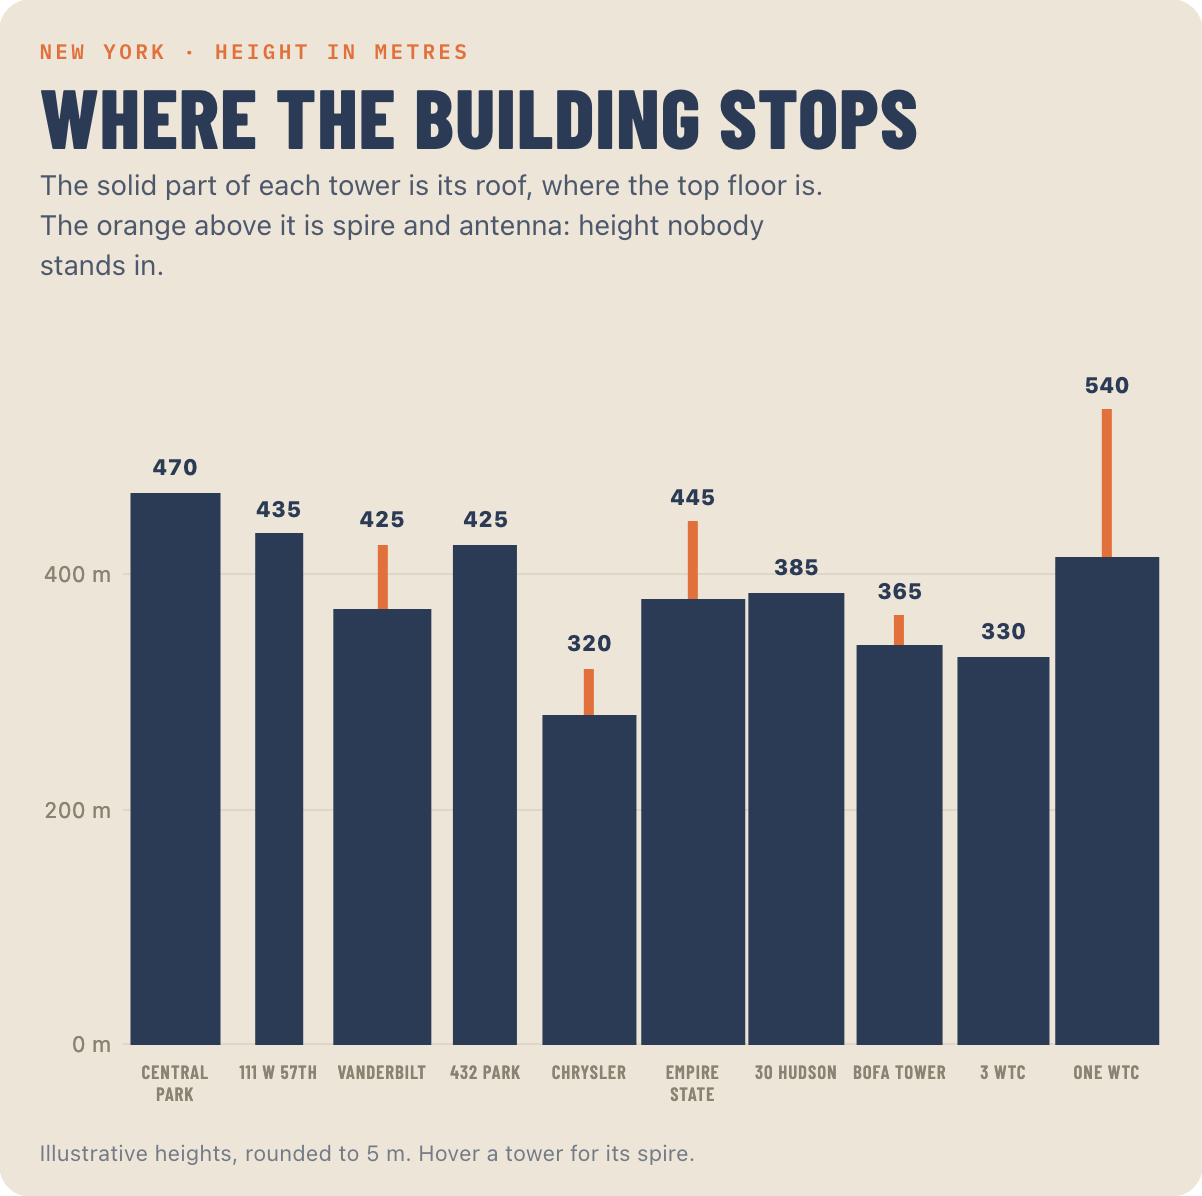
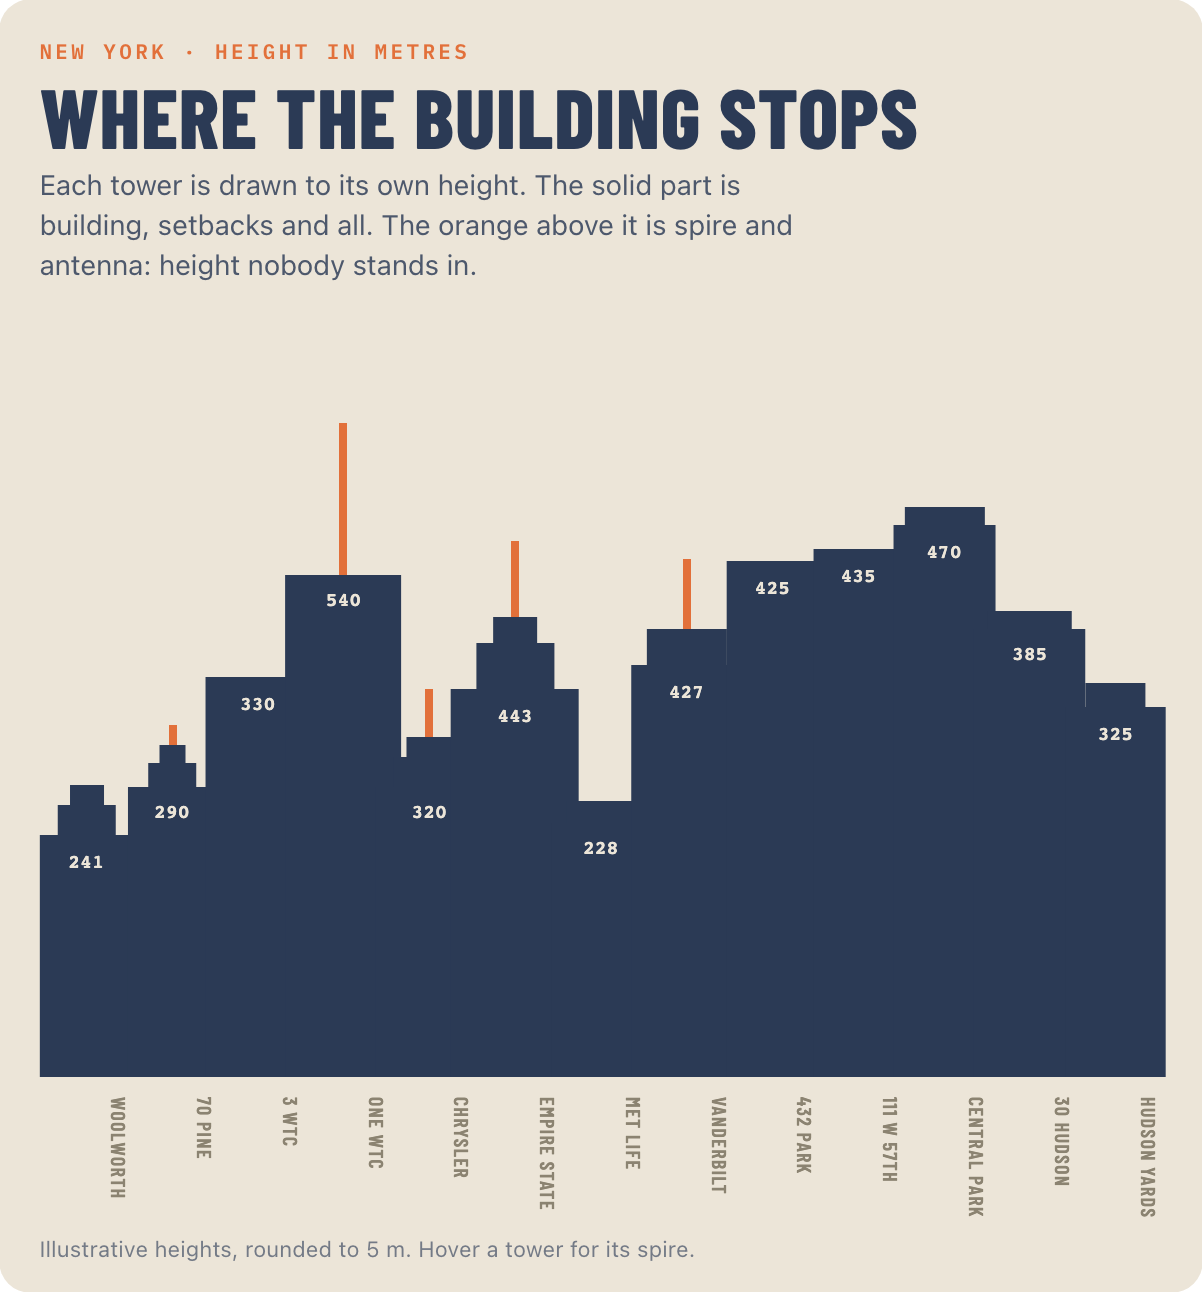
Draw the skyline as one silhouette: towers that overlap, with their setbacks stacked on top

Changed region(s): [[0.0308, 0.3094, 0.985, 0.959], [0.0308, 0.0309, 0.7696, 0.2475], [0.0616, 0.959, 0.5849, 0.99]]

diff --git a/src/gallery/examples/skyline/poster/chart.jsx b/src/gallery/examples/skyline/poster/chart.jsx
@@ -1,53 +1,75 @@
-import { createMemo } from "solid-js";
+import { createMemo, For, Show } from "solid-js";
 import { Plot, Chart, Bar, Label, Place, slat } from "@bezda/rhp";
 import { Poster } from "@gallery/ui/Poster.jsx";
 import { rand } from "@gallery/random.js";
 import * as styles from "./styles.js";
 
-// Ten New York towers, north to south along the island, so the skyline reads as a skyline.
-// roof is the height of the top floor; tip adds the spire or antenna above it. Heights are rounded to 5 m.
+// Thirteen Manhattan towers, south to north.
+//   mass   the main block, in metres
+//   steps  the setbacks above it, each [share of the tower's width, metres]: the crown, drawn as narrower blocks
+//   tip    the top of the spire or antenna, if it has one
+//   wide   the footprint, as a share of its slat's band. Over 1 it spills into its neighbours, which is what keeps
+//          the skyline one unbroken mass rather than a row of bars.
 const TOWERS = [
-  { name: "Central Park", roof: 470, tip: 470, wide: 0.86 },
-  { name: "111 W 57th", roof: 435, tip: 435, wide: 0.46 },
-  { name: "Vanderbilt", roof: 370, tip: 425, wide: 0.96 },
-  { name: "432 Park", roof: 425, tip: 425, wide: 0.62 },
-  { name: "Chrysler", roof: 280, tip: 320, wide: 0.9 },
-  { name: "Empire State", roof: 380, tip: 445, wide: 1 },
-  { name: "30 Hudson", roof: 385, tip: 385, wide: 0.94 },
-  { name: "BofA Tower", roof: 340, tip: 365, wide: 0.82 },
-  { name: "3 WTC", roof: 330, tip: 330, wide: 0.88 },
-  { name: "One WTC", roof: 415, tip: 540, wide: 1 },
+  { name: "Woolworth", mass: 200, steps: [[0.62, 25], [0.36, 16]], tip: 241, wide: 1.1 },
+  { name: "70 Pine", mass: 240, steps: [[0.55, 20], [0.3, 14]], tip: 290, wide: 1.05 },
+  { name: "3 WTC", mass: 330, steps: [], tip: 330, wide: 1.2 },
+  { name: "One WTC", mass: 415, steps: [], tip: 540, wide: 1.35 },
+  { name: "Chrysler", mass: 240, steps: [[0.66, 24], [0.42, 16]], tip: 320, wide: 1.25 },
+  { name: "Empire State", mass: 320, steps: [[0.6, 38], [0.34, 22]], tip: 443, wide: 1.5 },
+  { name: "Met Life", mass: 210, steps: [[0.7, 18]], tip: 228, wide: 1.15 },
+  { name: "Vanderbilt", mass: 340, steps: [[0.72, 30]], tip: 427, wide: 1.3 },
+  { name: "432 Park", mass: 425, steps: [], tip: 425, wide: 1.08 },
+  { name: "111 W 57th", mass: 435, steps: [], tip: 435, wide: 1.06 },
+  { name: "Central Park", mass: 455, steps: [[0.78, 15]], tip: 470, wide: 1.2 },
+  { name: "30 Hudson", mass: 370, steps: [[0.74, 15]], tip: 385, wide: 1.3 },
+  { name: "Hudson Yards", mass: 305, steps: [[0.6, 20]], tip: 325, wide: 1.15 },
 ];
 
-// A tower: its building up to the roof, its spire above that, the height at the top, and its name below.
+// Where each block of a tower starts and ends: the mass from 0, then each setback on top of the last.
+const blocks = (d) => {
+  const out = [{ from: 0, to: d.mass, wide: d.wide }];
+  let top = d.mass;
+  for (const [share, metres] of d.steps) {
+    out.push({ from: top, to: top + metres, wide: d.wide * share });
+    top += metres;
+  }
+  return { parts: out, roof: top };
+};
+
+// A tower: its mass, its setbacks, the spire above them, its height inside it, and its name below.
 export const TowerSlat = slat({
-  inset: 0, // the towers stand shoulder to shoulder, the way a skyline does
-  thickness: { horizontal: 34 },
-  room: { horizontal: { start: 104, end: 54 }, vertical: { start: 34, end: 34 } },
+  inset: 0, // no room on either side: the towers touch, which is what makes a skyline rather than a bar chart
+  thickness: { horizontal: 30 },
+  room: { horizontal: { start: 96, end: 54 }, vertical: { start: 66, end: 40 } },
   css: styles.tower,
-}, (d) => (
-  <div class="slat">
-    <Bar to={d.roof} thick={d.wide} class="roof" />
-    <Bar from={d.roof} to={d.tip} thick={Math.min(0.1, d.wide * 0.12)} class="spire" />
-    <Label edge="start" class="name">{d.name}</Label>
-    <Label at={d.tip} class="metres">{Math.round(d.tip)}</Label>
-    <Place at={d.roof} across={0.5}>
-      <span class="vain">{d.tip > d.roof ? "+" + Math.round(d.tip - d.roof) + " m of spire" : "all building"}</span>
-    </Place>
-  </div>
-));
+}, (d) => {
+  const b = createMemo(() => blocks(d));
+  return (
+    <div class="slat">
+      <For each={b().parts}>{(part) => <Bar from={part.from} to={part.to} thick={part.wide} class="block" />}</For>
+      <Show when={d.tip > b().roof}>
+        <Bar from={b().roof} to={d.tip} thick="4px" class="spire" />
+        <Place at={d.tip} across={0.5}><span class="vain">+{Math.round(d.tip - b().roof)} m of spire</span></Place>
+      </Show>
+      <Label edge="start" class="name">{d.name}</Label>
+      <Label at={d.mass} side="before" class="metres">{Math.round(d.tip)}</Label>
+    </div>
+  );
+});
 
 export default function Skyline(p) {
-  // New data shakes the city: every tower keeps its shape, and the ones with spires keep their spires.
+  // New data rebuilds the city: every tower keeps its footprint, its setbacks and its spire, and only its height moves.
   const towers = createMemo(() => (!p.seed() ? TOWERS : TOWERS.map((t) => {
-    const roof = Math.round((t.roof * rand(0.75, 1.2)) / 5) * 5;
-    return { ...t, roof, tip: t.tip > t.roof ? roof + Math.round((t.tip - t.roof) * rand(0.6, 1.4)) : roof };
+    const mass = Math.round((t.mass * rand(0.72, 1.16)) / 5) * 5;
+    const crown = t.steps.reduce((n, [, m]) => n + m, 0);
+    return { ...t, mass, tip: t.tip > t.mass + crown ? mass + crown + Math.round((t.tip - t.mass - crown) * rand(0.6, 1.4)) : mass + crown };
   })));
   return (
     <Poster look="skyline" kicker="New York · height in metres" title="Where the building stops"
-      dek="The solid part of each tower is its roof, where the top floor is. The orange above it is spire and antenna: height nobody stands in."
+      dek="Each tower is drawn to its own height. The solid part is building, setbacks and all. The orange above it is spire and antenna: height nobody stands in."
       note="Illustrative heights, rounded to 5 m. Hover a tower for its spire.">
-      <Chart orientation={p.o()} scale={[0, 560]} ticks={[0, 200, 400]} format={(v) => v + " m"} height={330} animate={p.js()} theme={styles.theme}>
+      <Chart orientation={p.o()} scale={[0, 560]} ticks={false} height={340} animate={p.js()} theme={styles.theme}>
         <Plot rows={towers()} key="name">{TowerSlat}</Plot>
       </Chart>
     </Poster>

diff --git a/src/gallery/examples/skyline/poster/styles.js b/src/gallery/examples/skyline/poster/styles.js
@@ -3,17 +3,19 @@
 // The chart's theme: its text and line colors, its surface and its font.
 export const theme = { font: "system-ui, sans-serif", ink: "#2b3a55", muted: "#8b8371", grid: "#ded6c7", surface: "#ece5d8" };
 
-// A tower: the building as a flat silhouette, its spire above it, the height at the top, and its name below.
+// A tower: every block of it is one flat colour, so the whole row reads as one silhouette. The setbacks above the
+// mass are narrower blocks, so the crown keeps the tower's proportions however tall the data makes it.
 export const tower = `
 .slat { --sky-ink: #2b3a55; --sky-spire: #e2703a; }
-.roof { background: var(--sky-ink); --rhp-radius: 0px; }
+.block { background: var(--sky-ink); --rhp-radius: 0px; }
 .spire { background: var(--sky-spire); --rhp-radius: 0px; }
-.name { font: 600 9.5px/1.15 "Barlow Condensed", "Arial Narrow", sans-serif; letter-spacing: .05em; text-transform: uppercase; color: var(--rhp-muted); }
-.name:vertical { white-space: normal; text-align: center; --rhp-label-gap: 8px; }
-.metres { font-size: 11px; font-weight: 800; font-variant-numeric: tabular-nums; color: var(--sky-ink); }
-.metres:vertical { --rhp-label-gap: 6px; }
-.vain { font-size: 10px; font-weight: 700; white-space: nowrap; color: var(--sky-spire); opacity: 0; transition: opacity .15s; }
-.vain:vertical { position: absolute; left: 8px; bottom: -6px; }
+.metres { font: 800 9.5px/1 ui-monospace, monospace; color: #ece5d8; letter-spacing: .02em; }
+.metres:vertical { --rhp-label-gap: 9px; }
+.metres:horizontal { color: var(--sky-ink); }
+.name { font: 600 10px/1.1 "Barlow Condensed", "Arial Narrow", sans-serif; letter-spacing: .07em; text-transform: uppercase; color: var(--rhp-muted); }
+.name:vertical { writing-mode: vertical-rl; text-align: right; --rhp-label-gap: 10px; }
+.vain { font: 700 10px/1 system-ui, sans-serif; white-space: nowrap; color: var(--sky-spire); opacity: 0; transition: opacity .15s; }
+.vain:vertical { position: absolute; left: 10px; top: -4px; }
 .slat:hover .vain { opacity: 1; }
-.slat:hover .roof { background: #3a4d70; }
+.slat:hover .block { background: #3d5279; }
 `;
